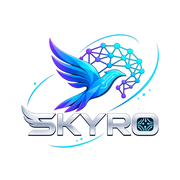
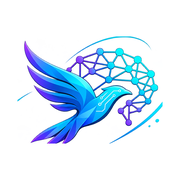
feat(brand): bird mark with the Skyrostore name in the header, full artwork in footer and invoices
The full artwork's SKYRO lettering was about 8px tall in the header and doubled the name beside it.
The header, checkout and tab icons now use the bird alone (cropped above the wordmark, pixels
unchanged) next to the Skyrostore name; the complete artwork stays where it has room.

Changed region(s): [[0.0833, 0.1667, 0.9167, 0.8333], [0.8611, 0.25, 0.8889, 0.3889]]

diff --git a/apps/storefront/src/components/brand/logo.tsx b/apps/storefront/src/components/brand/logo.tsx
@@ -1,23 +1,30 @@
 import Image from "next/image";
 
 /**
- * The Skyro logo: the master artwork ("Skyro Cybernetic Bird Logo.png" in the repo root, copied unchanged
- * to public/brand/skyro-logo.png) shown at header size, followed by the Skyrostore name.
- * The tab and home-screen icons (app/icon.png, app/apple-icon.png) are the same artwork on a square canvas.
+ * Two versions of one logo, both from the master artwork ("Skyro Cybernetic Bird Logo.png" in the repo
+ * root; pixels unchanged):
+ * - mark: the bird alone (public/brand/skyro-bird.png, cropped above the wordmark) beside the Skyrostore
+ *   name, for the header and checkout, where the artwork's own SKYRO lettering would be too small to read;
+ * - full: the complete artwork (public/brand/skyro-logo.png) where there is room: footer, invoices, emails.
  */
-export function SkyroLogo({ className = "", light = false, priority = false }: { className?: string; light?: boolean; priority?: boolean }) {
+export function SkyroLogo({
+  className = "",
+  variant = "mark",
+  light = false,
+  priority = false,
+}: {
+  className?: string;
+  variant?: "mark" | "full";
+  light?: boolean;
+  priority?: boolean;
+}) {
+  if (variant === "full") {
+    return <Image src="/brand/skyro-logo.png" alt="Skyro" width={1536} height={1024} sizes="160px" className={`h-24 w-auto ${className}`} />;
+  }
   return (
-    <span className={`inline-flex items-center gap-1.5 ${className}`}>
-      <Image
-        src="/brand/skyro-logo.png"
-        alt=""
-        width={1536}
-        height={1024}
-        priority={priority}
-        sizes="96px"
-        className={light ? "h-20 w-auto" : "h-12 w-auto md:h-14"}
-      />
-      <span className={`text-[20px] font-bold tracking-[-0.03em] ${light ? "text-white" : "text-navy"}`}>Skyrostore</span>
+    <span className={`inline-flex items-center gap-2 ${className}`}>
+      <Image src="/brand/skyro-bird.png" alt="" width={880} height={650} priority={priority} sizes="64px" className="h-9 w-auto md:h-10" />
+      <span className={`text-[20px] font-bold tracking-[-0.03em] md:text-[22px] ${light ? "text-white" : "text-navy"}`}>Skyrostore</span>
     </span>
   );
 }

diff --git a/apps/storefront/src/components/account/order-detail.tsx b/apps/storefront/src/components/account/order-detail.tsx
@@ -412,7 +412,7 @@ export function OrderDetail({ orderId, gstin }: { orderId: string; gstin?: strin
             <div id="printable-invoice" className="flex-1 overflow-y-auto p-6 md:p-8 space-y-6 text-navy print:overflow-visible">
               <div className="flex flex-col sm:flex-row sm:items-start sm:justify-between gap-4 border-b border-border pb-6">
                 <div>
-                  <SkyroLogo className="mb-3" />
+                  <SkyroLogo variant="full" className="mb-3 !h-16" />
                   <span className="text-[18px] font-extrabold tracking-tight text-navy">
                     SKYROSTORE SYSTEMS PRIVATE LIMITED
                   </span>

diff --git a/apps/storefront/src/components/checkout/order-success.tsx b/apps/storefront/src/components/checkout/order-success.tsx
@@ -236,7 +236,7 @@ export function OrderSuccess({ orderId, summary, gstin }: { orderId?: string; su
               {/* Company & Invoice Meta */}
               <div className="flex flex-col sm:flex-row sm:items-start sm:justify-between gap-4 border-b border-border pb-6">
                 <div>
-                  <SkyroLogo className="mb-3" />
+                  <SkyroLogo variant="full" className="mb-3 !h-16" />
                   <span className="text-[20px] font-extrabold tracking-tight text-navy">
                     SKYROSTORE SYSTEMS
                   </span>

diff --git a/apps/storefront/src/components/layout/footer.tsx b/apps/storefront/src/components/layout/footer.tsx
@@ -48,7 +48,7 @@ export function Footer() {
     <footer className="bg-navy text-on-dark">
       <div className="mx-auto grid max-w-[1760px] gap-6 px-4 pb-8 pt-10 sm:grid-cols-2 sm:gap-10 sm:pb-10 sm:pt-14 md:px-8 lg:grid-cols-[1.4fr_1fr_1fr_1fr]">
         <div className="space-y-4">
-          <SkyroLogo light />
+          <SkyroLogo variant="full" />
           <p className="max-w-[34ch] text-[14px] leading-relaxed text-on-dark">
             Drone parts and complete UAVs, checked for compatibility before they ship from Odisha.
           </p>
